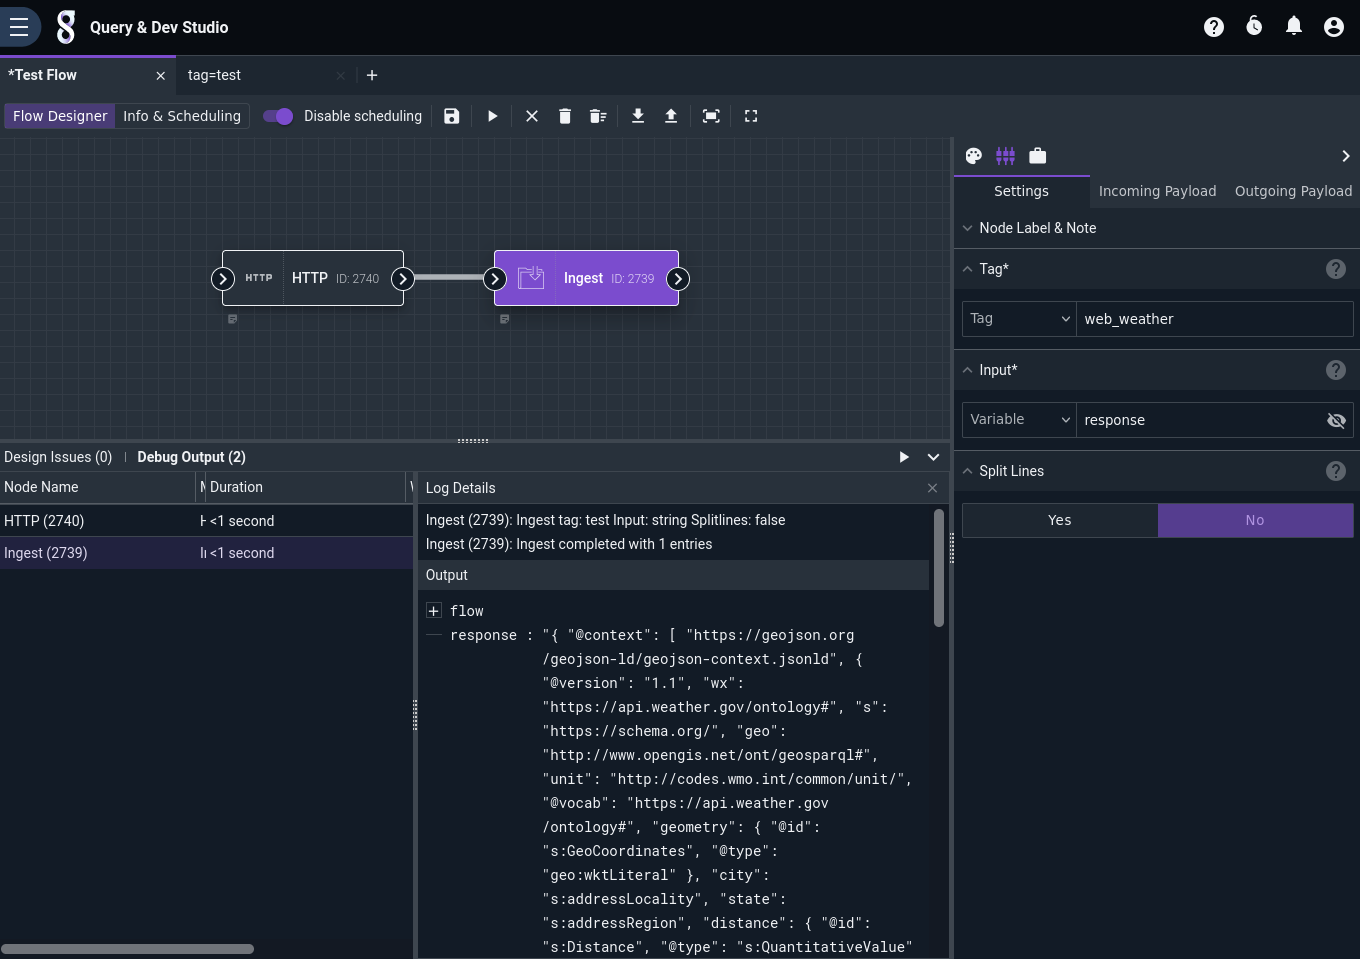
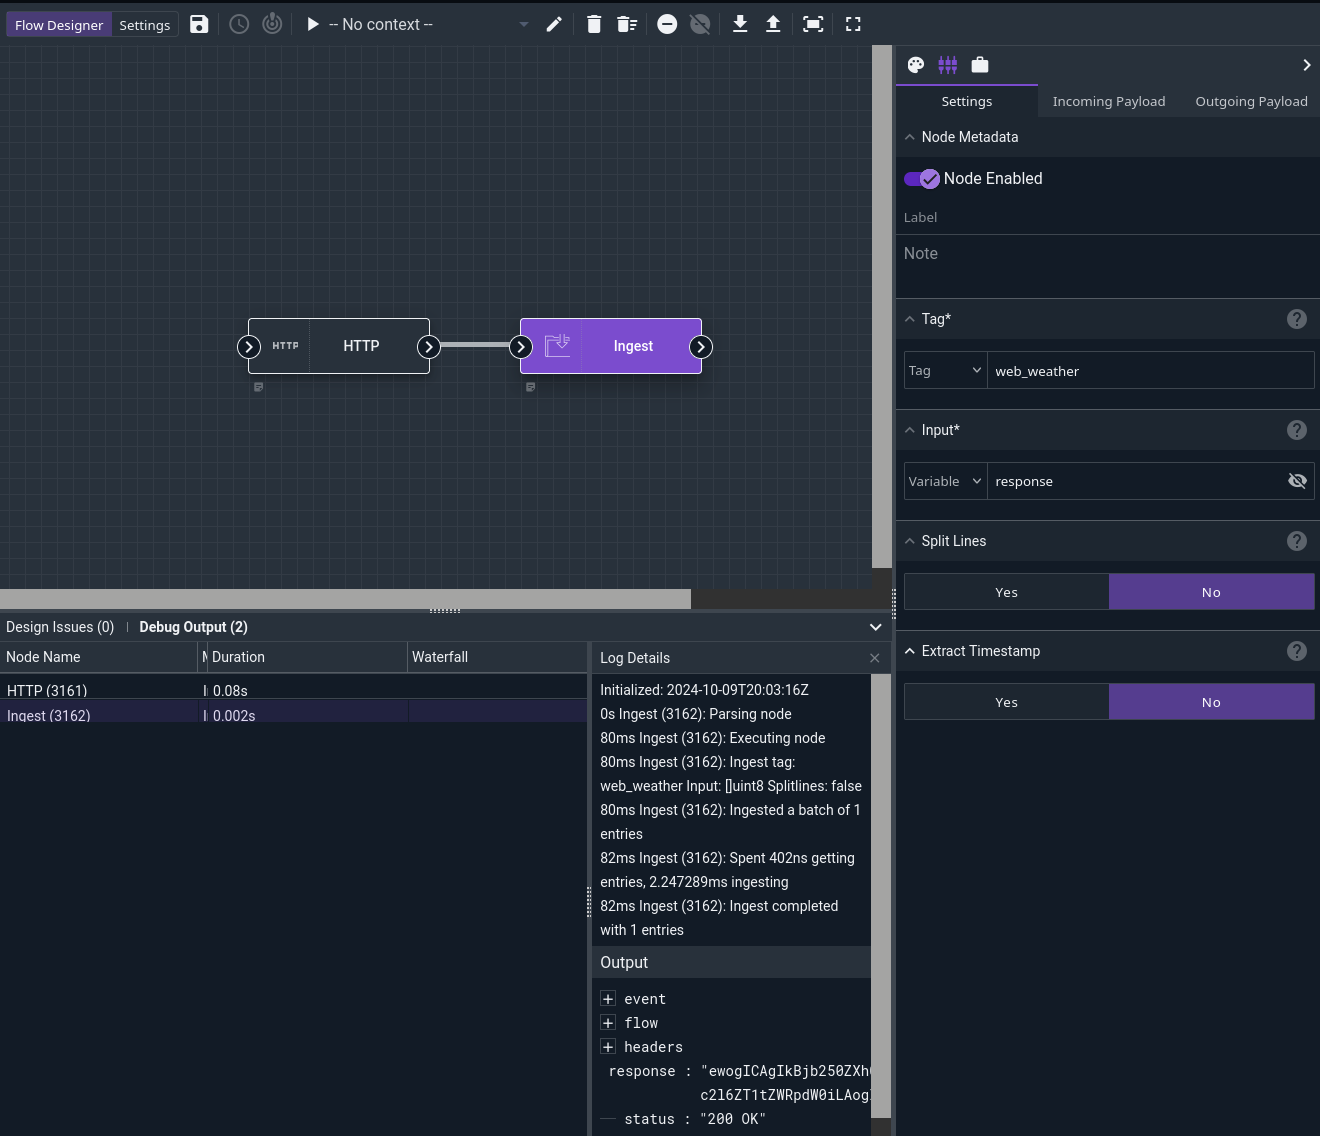
Document "Extract Timestamp" in Ingest node
Addresses #1142

diff --git a/flows/nodes/ingest.md b/flows/nodes/ingest.md
@@ -7,6 +7,7 @@ This node ingests data into Gravwell under a specified tag. Note that the user m
 * `Tag`, required: the Gravwell tag into which the data should be ingested.
 * `Input`, required: the data to ingest.
 * `Split Lines`: if set to true, the node will split the input data into separate entries at newline boundaries.
+* `Extract Timestamp`: if set to true, Gravwell will attempt to extract timestamps from the input data. If false, the entries will be ingested with the current timestamp.
 
 ## Output
 
@@ -18,7 +19,7 @@ This example fetches JSON weather information from `api.weather.gov` and ingests
 
 ![](ingest-example.png)
 
-The HTTP node is configured to perform a GET request on `https://api.weather.gov/gridpoints/MTR/82,105/forecast` to fetch a weather report from the San Francisco peninsula. The ingest node then takes the `response` value (generated by the HTTP node) and ingests it into the web_weather` tag. Because we wish to ingest the entire HTTP response in a single entry, we leave the Split Lines config option set to "No".
+The HTTP node is configured to perform a GET request on `https://api.weather.gov/gridpoints/MTR/82,105/forecast` to fetch a weather report from the San Francisco peninsula. The ingest node then takes the `response` value (generated by the HTTP node) and ingests it into the web_weather` tag. Because we wish to ingest the entire HTTP response in a single entry, we leave the Split Lines config option set to "No". Because we're fetching the current weather, the timestamp at execution is acceptable, so we leave Extract Timestamp set to "No".
 
 A query run on the `web_weather` tag shows the results:
 
